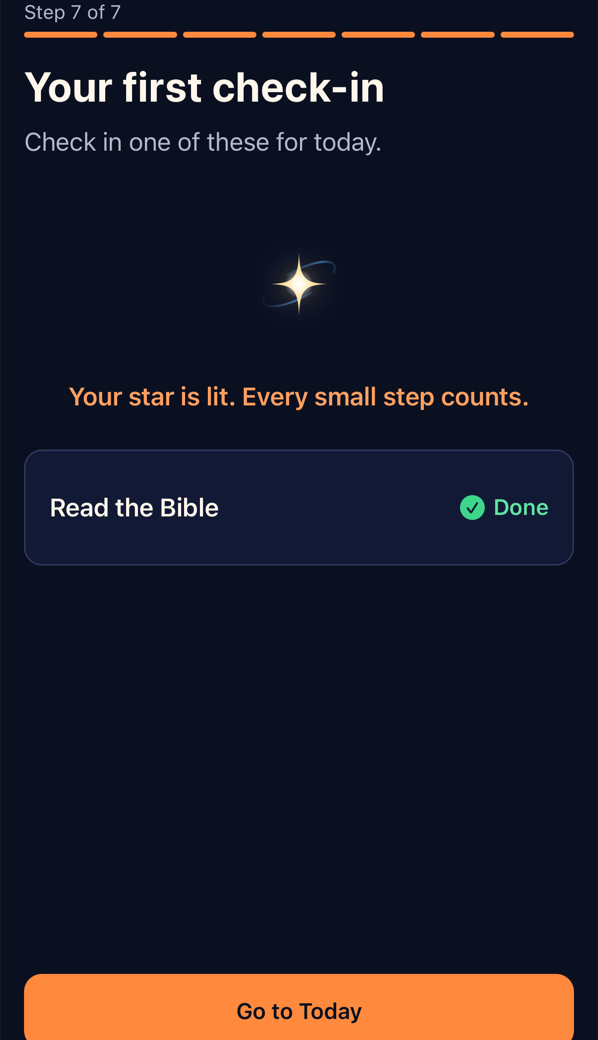
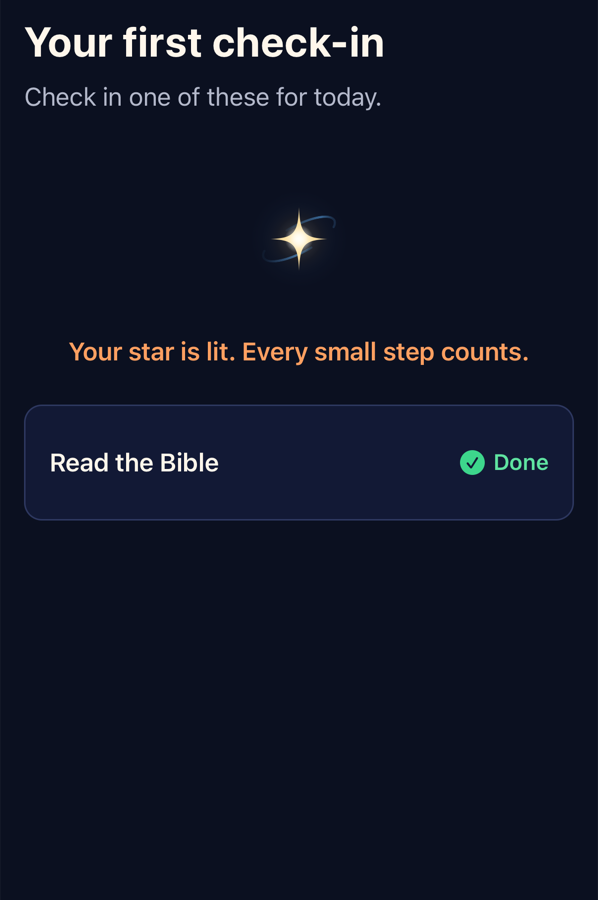
Re-crop the check-in screenshot so no text is clipped
Starts below the step line and ends above the button; the tablet
screenshot ratio follows the new widest image.

diff --git a/index.html b/index.html
@@ -74,7 +74,7 @@
             <img
               src="/images/streakspark/checkin.png"
               width="598"
-              height="1040"
+              height="900"
               loading="lazy"
               alt="The first check-in screen: the star is lit after Read the Bible is marked done."
             />

diff --git a/public/styles.css b/public/styles.css
@@ -588,7 +588,7 @@ a {
 @media (min-width: 761px) and (max-width: 1100px) {
   .shots img {
     height: auto;
-    aspect-ratio: 598 / 980; /* the widest screenshot, so cover only ever trims the bottom */
+    aspect-ratio: 598 / 900; /* the widest screenshot, so cover only ever trims the bottom */
   }
 }
 
